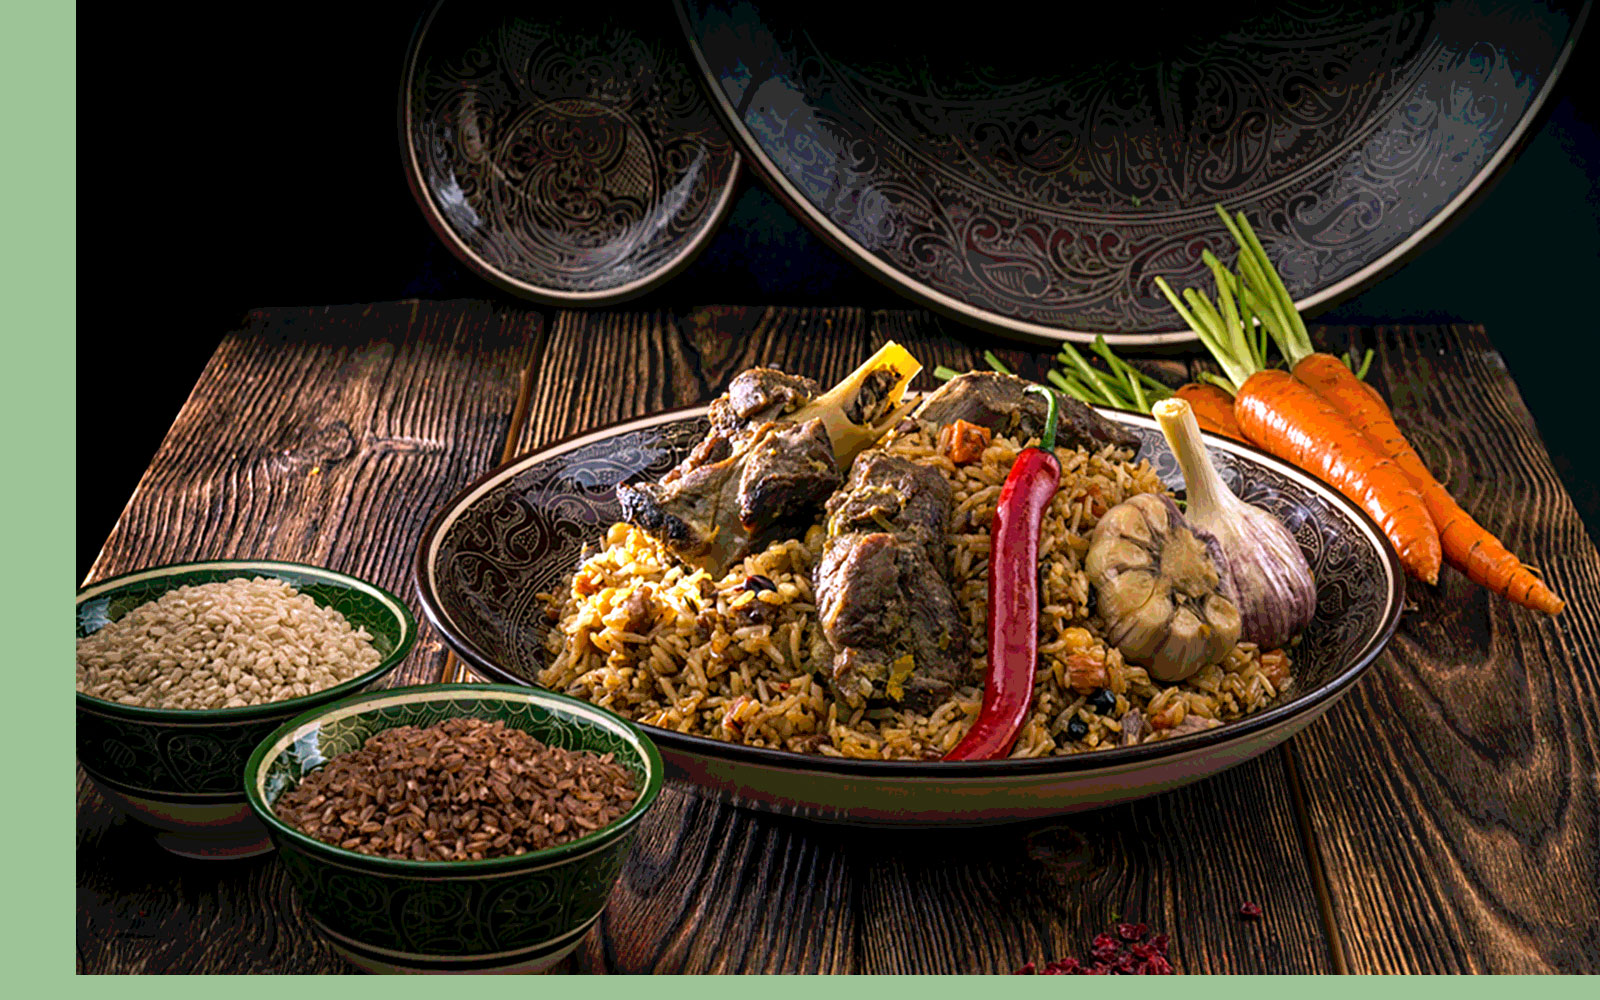
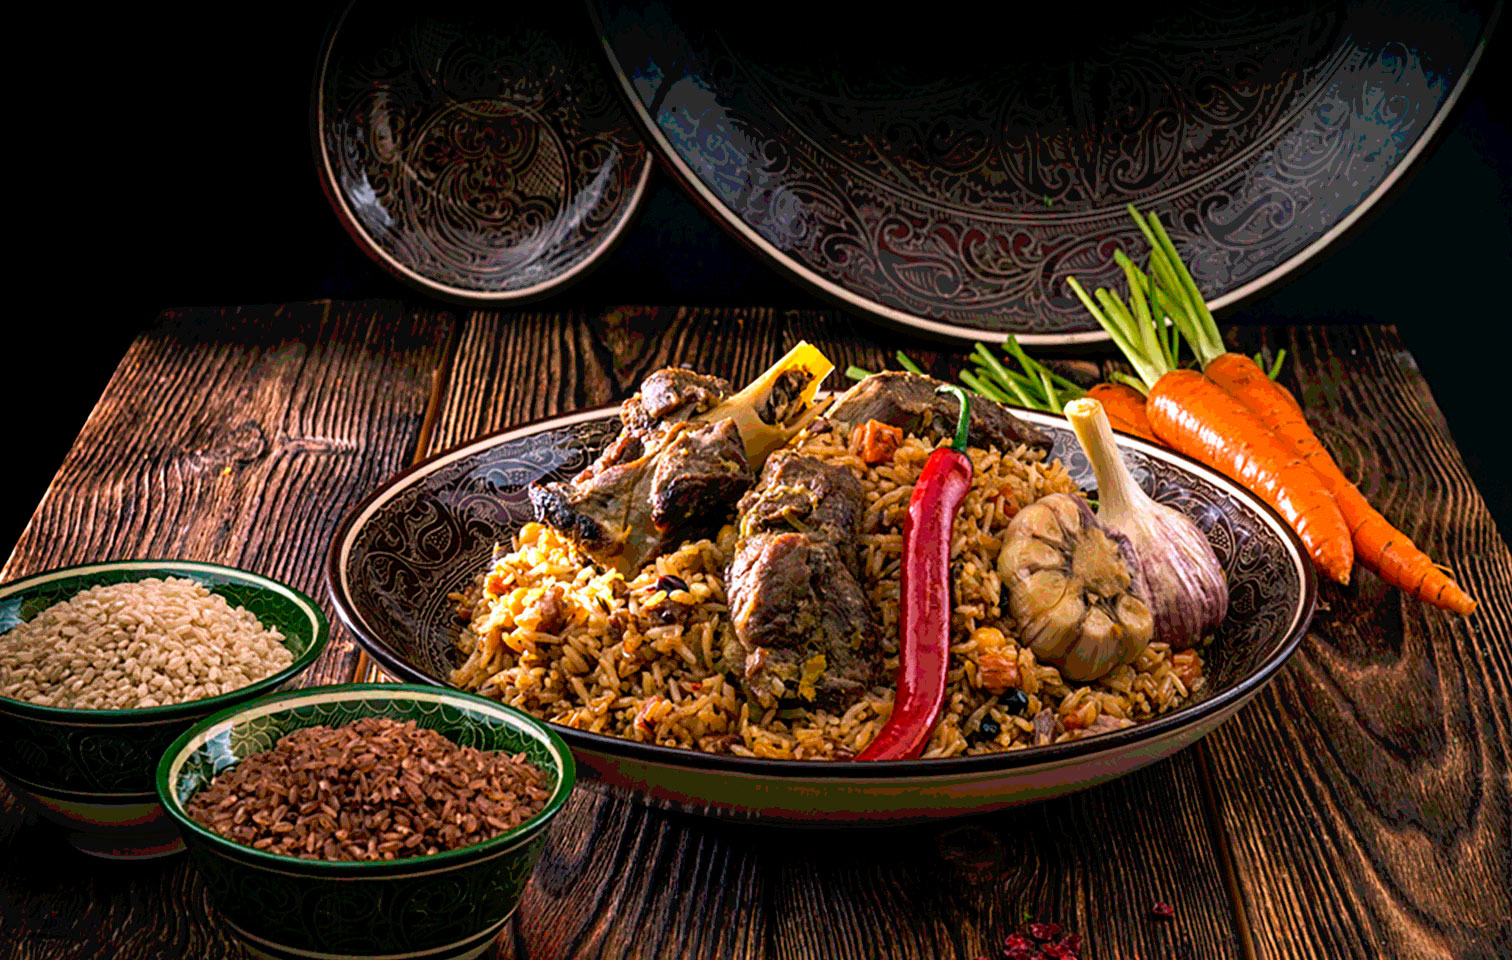
image bg problems fix

diff --git a/js/script.js b/js/script.js
@@ -6,7 +6,7 @@ $(document).ready(function(){
                 var $bgobj = $(this); // создаем объект
                 $(window).scroll(function() {
                     var yPos = -( ( $(window).scrollTop() - $bgobj.offset().top ) / $bgobj.data('speed')); // вычисляем коэффициент
-     
+                    if ($bgobj.hasClass('cover')) yPos = -yPos;
                     // Присваиваем значение background-position
                     var coords = 'center '+ yPos + 'px';
                     // Создаем эффект Parallax Scrolling

diff --git a/index.html b/index.html
@@ -3,7 +3,7 @@
 		<meta charset="UTF-8">
 		<title>Узбекская кухня</title>
 
-		<meta name="viewport" content="width=device-width, initial-scale=1.0, minimum-scale=1.0, maximum-scale=1.0">
+		<meta name="viewport" content="width=device-width, initial-scale=1.0">
 
 		<link href='http://fonts.googleapis.com/css?family=Kurale&amp;subset=latin,cyrillic' rel='stylesheet' type='text/css'>
 		<link href='http://fonts.googleapis.com/css?family=Yeseva+One&amp;subset=latin,cyrillic' rel='stylesheet' type='text/css'>

diff --git a/css/main.css b/css/main.css
@@ -222,7 +222,7 @@ h3:after{
 
 .cover{
     position: relative;
-    background: black url("../images/bgs/chaihan.jpg") repeat center 0 fixed;
+    background: black url("../images/bgs/chaihan.jpg") repeat center 0;
     padding-bottom: 143px;
 }
 
@@ -932,3 +932,9 @@ h2{
         clear: both;
     }
 }
+
+@media only screen and (min-width: 1400px){
+    .cover, .ingredients, .reviews{
+        background-size: 100%;
+    }
+} 
